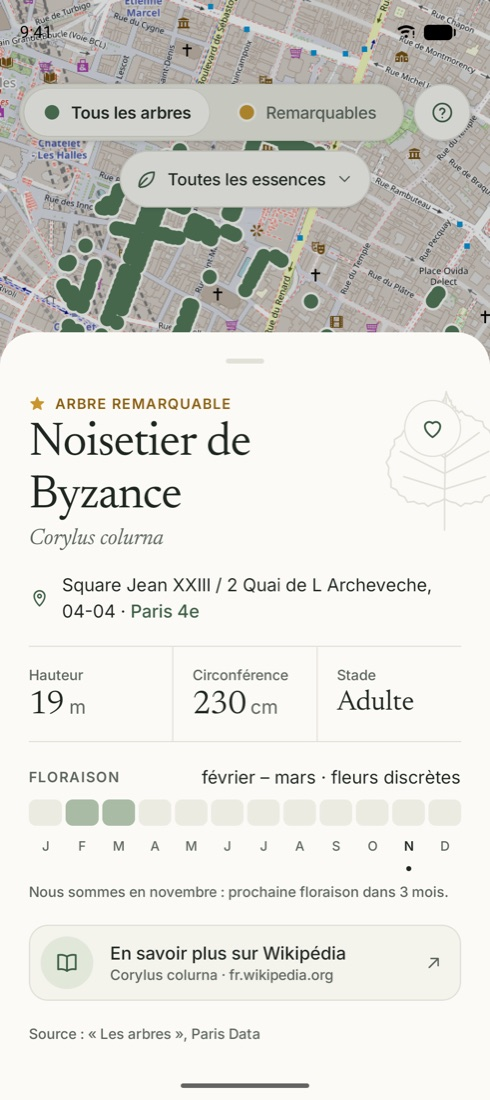
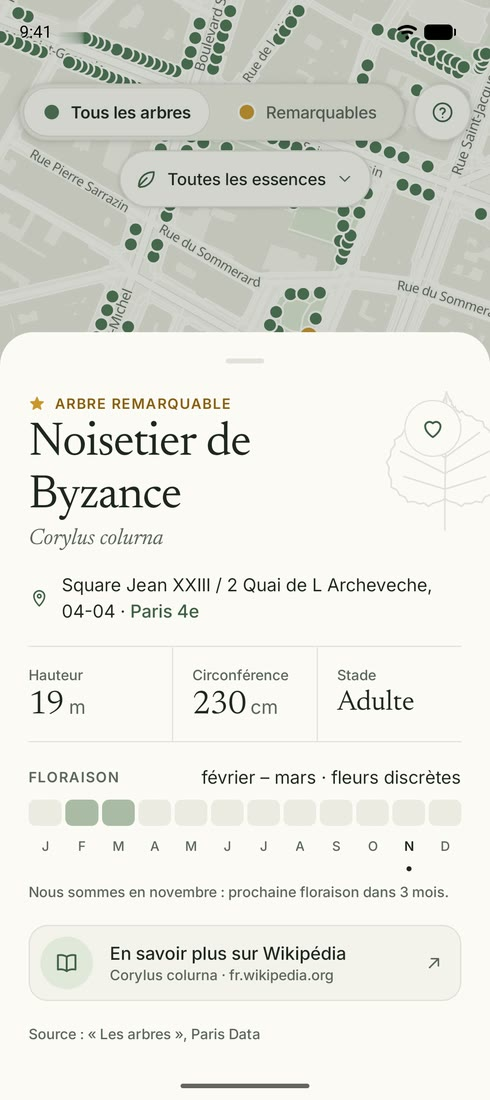
docs(website): mention the neighbouring towns wherever the map is described, new screenshots
- Website: « Les arbres de Paris et d'alentour, un par un. », the intro,
  titles and sharing previews name the eight GPSO towns; figures for the
  whole map (252 975 trees, 209 genera, 347 remarkable trees); the data
  section and footer credit Grand Paris Seine Ouest. Same on the map page.
- New screenshots: the tree sheet over the new Herbier map, and Herbier.
- App: À propos and the remarkable-tree explanation mention the towns.
- Store texts and the first release note name the towns and both
  sources; the error report line is gone from the description.
- README and CLAUDE.md. The Herbier wording stays on Paris: its figures
  are the Paris data's.

diff --git a/website/index.html b/website/index.html
@@ -3,8 +3,8 @@
 <head>
   <meta charset="utf-8">
   <meta name="viewport" content="width=device-width, initial-scale=1">
-  <title>Arbres de Paris — les arbres de Paris, un par un</title>
-  <meta name="description" content="Arbres de Paris, l’application Android qui montre les 220 339 arbres de la Ville de Paris sur une carte : leur nom, leur taille, leur floraison et les arbres remarquables.">
+  <title>Arbres de Paris — les arbres de Paris et des villes voisines, un par un</title>
+  <meta name="description" content="Arbres de Paris, l’application Android qui montre les 252 975 arbres de Paris et de huit villes voisines sur une carte : leur nom, leur taille, leur floraison et les arbres remarquables.">
   <meta name="theme-color" content="#f4f3ec" media="(prefers-color-scheme: light)">
   <meta name="theme-color" content="#141815" media="(prefers-color-scheme: dark)">
   <link rel="canonical" href="https://arbresdeparis.fr/">
@@ -15,8 +15,8 @@
   <meta property="og:type" content="website">
   <meta property="og:locale" content="fr_FR">
   <meta property="og:site_name" content="Arbres de Paris">
-  <meta property="og:title" content="Arbres de Paris — les arbres de Paris, un par un">
-  <meta property="og:description" content="Les 220 339 arbres de la Ville de Paris sur une carte, avec leur nom, leur taille, leur floraison et les arbres remarquables.">
+  <meta property="og:title" content="Arbres de Paris — les arbres de Paris et des villes voisines, un par un">
+  <meta property="og:description" content="Les 252 975 arbres de Paris et de huit villes voisines sur une carte, avec leur nom, leur taille, leur floraison et les arbres remarquables.">
   <meta property="og:url" content="https://arbresdeparis.fr/">
   <meta property="og:image" content="https://arbresdeparis.fr/images/app-fiche-arbre.jpg">
   <meta property="og:image:alt" content="La fiche d’un arbre remarquable dans l’application Arbres de Paris">
@@ -41,8 +41,8 @@
   <main id="contenu">
     <section class="wrap hero" aria-labelledby="titre">
       <div class="hero-text">
-        <h1 id="titre">Les arbres de Paris, un par un.</h1>
-        <p>Platanes, tilleuls, marronniers, ginkgos : les 220 339 arbres de la Ville de Paris sur une carte, avec leur nom, leur taille, leur floraison, et les arbres remarquables en or. Ouvrez la carte et découvrez l’arbre juste à côté de vous.</p>
+        <h1 id="titre">Les arbres de Paris et d’alentour, un&nbsp;par&nbsp;un.</h1>
+        <p>Platanes, tilleuls, marronniers, ginkgos : les 252 975 arbres de Paris et de huit villes voisines, de Boulogne-Billancourt à Meudon, sur une carte, avec leur nom, leur taille, leur floraison, et les arbres remarquables en or. Ouvrez la carte et découvrez l’arbre juste à côté de vous.</p>
         <!--
           Lien du store, à mettre ici quand l'application sera publiée, à la place du <div> ci-dessous :
           <a class="store-badge" href="https://play.google.com/store/apps/details?id=fr.arbresdeparis">…</a>
@@ -72,9 +72,9 @@
 
     <section class="figures" aria-label="En chiffres">
       <dl class="wrap">
-        <div><dt>arbres sur la carte</dt><dd>220&#8239;339</dd></div>
-        <div><dt>genres, du platane au ginkgo</dt><dd>202</dd></div>
-        <div><dt>arbres remarquables</dt><dd class="remarkable">181</dd></div>
+        <div><dt>arbres sur la carte</dt><dd>252&#8239;975</dd></div>
+        <div><dt>genres, du platane au ginkgo</dt><dd>209</dd></div>
+        <div><dt>arbres remarquables</dt><dd class="remarkable">347</dd></div>
         <div><dt>feuilles dessinées à la main</dt><dd>21</dd></div>
       </dl>
     </section>
@@ -112,7 +112,7 @@
       <div class="wrap section">
         <h2 id="titre-donnees">Des données ouvertes</h2>
         <div class="data-text">
-          <p>Les arbres viennent du jeu de données <a href="https://opendata.paris.fr/explore/dataset/les-arbres/information/">« Les arbres »</a> publié par la Ville de Paris sous licence ODbL, et actualisé régulièrement.</p>
+          <p>Les arbres viennent du jeu de données <a href="https://opendata.paris.fr/explore/dataset/les-arbres/information/">« Les arbres »</a> publié par la Ville de Paris sous licence ODbL, et actualisé régulièrement. Ceux de Boulogne-Billancourt, Chaville, Issy-les-Moulineaux, Marnes-la-Coquette, Meudon, Sèvres, Vanves et Ville-d’Avray viennent du jeu de données <a href="https://data.seineouest.fr/explore/dataset/arbres-v2/information/">« Arbres »</a> de Grand Paris Seine Ouest, sous Licence Ouverte.</p>
           <p>Le fond de carte, dessiné aux couleurs de l’herbier avec <a href="https://maplibre.org">MapLibre</a>, vient d’<a href="https://openfreemap.org">OpenFreeMap</a> : des tuiles <a href="https://www.openmaptiles.org/">OpenMapTiles</a> faites des données d’<a href="https://www.openstreetmap.org/copyright">OpenStreetMap</a> et de ses contributeurs (licence ODbL).</p>
           <p>Les mois de floraison viennent du <a href="https://opendata.paris.fr/explore/dataset/fiches-essences-du-guide-des-essences-de-paris/information/">« Guide des Essences de Paris »</a> (Ville de Paris, Cerema) ; les fiches renvoient à Wikipédia.</p>
         </div>
@@ -166,7 +166,7 @@
   <footer class="site-footer">
     <div class="wrap">
       <span>© 2026 Arbres de Paris</span>
-      <span>Données : Ville de Paris, ODbL</span>
+      <span>Données : Ville de Paris (ODbL), Grand Paris Seine Ouest (Licence Ouverte)</span>
       <span>Carte : OpenFreeMap · © OpenMapTiles · © les contributeurs d’OpenStreetMap</span>
       <span>Application indépendante, non affiliée à la Ville de Paris</span>
       <a href="confidentialite/">Confidentialité</a>

diff --git a/website/maps/index.html b/website/maps/index.html
@@ -3,8 +3,8 @@
 <head>
   <meta charset="utf-8">
   <meta name="viewport" content="width=device-width, initial-scale=1, viewport-fit=cover">
-  <title>La carte des arbres de Paris — Arbres de Paris</title>
-  <meta name="description" content="Les 220 339 arbres de la Ville de Paris sur une carte, dans le navigateur : leur essence, leur taille, leur adresse et les arbres remarquables en or.">
+  <title>La carte des arbres de Paris et des villes voisines — Arbres de Paris</title>
+  <meta name="description" content="Les 252 975 arbres de Paris et de huit villes voisines sur une carte, dans le navigateur : leur essence, leur taille, leur adresse et les arbres remarquables en or.">
   <meta name="theme-color" content="#f4f3ec" media="(prefers-color-scheme: light)">
   <meta name="theme-color" content="#141815" media="(prefers-color-scheme: dark)">
   <link rel="canonical" href="https://arbresdeparis.fr/maps/">
@@ -17,8 +17,8 @@
   <meta property="og:type" content="website">
   <meta property="og:locale" content="fr_FR">
   <meta property="og:site_name" content="Arbres de Paris">
-  <meta property="og:title" content="La carte des arbres de Paris">
-  <meta property="og:description" content="Les 220 339 arbres de la Ville de Paris sur une carte, avec leur essence, leur taille et les arbres remarquables.">
+  <meta property="og:title" content="La carte des arbres de Paris et des villes voisines">
+  <meta property="og:description" content="Les 252 975 arbres de Paris et de huit villes voisines sur une carte, avec leur essence, leur taille et les arbres remarquables.">
   <meta property="og:url" content="https://arbresdeparis.fr/maps/">
   <meta property="og:image" content="https://arbresdeparis.fr/images/app-fiche-arbre.jpg">
 </head>
@@ -28,13 +28,13 @@
       <svg width="36" height="36" viewBox="0 0 108 108" aria-hidden="true"><rect width="108" height="108" rx="24" fill="#3F5F45"/><g transform="translate(54 56) scale(0.74) translate(-50 -40)" fill="none" stroke="#F4F3EC" stroke-linecap="round" stroke-linejoin="round"><path d="M50 52C40 50 26 54 14 46C22 44 26 36 22 26C32 30 38 26 40 16C44 22 48 22 50 10C52 22 56 22 60 16C62 26 68 30 78 26C74 36 78 44 86 46C74 54 60 50 50 52Z" stroke-width="3.4"/><path d="M50 52L30 30M50 52L50 18M50 52L70 30M50 52L22 44M50 52L78 44" stroke-width="2.2"/><path d="M50 52L50 70" stroke-width="3.4"/></g><circle cx="73" cy="70" r="4.5" fill="#C9962E"/></svg>
       <span>
         <strong>Arbres de Paris</strong>
-        <small><span id="count">220&#8239;339</span> arbres · <span id="extraction">Ville de Paris</span></small>
+        <small><span id="count">252&#8239;975</span> arbres · <span id="extraction">Paris et alentour</span></small>
       </span>
     </a>
     <a class="app-link" href="../#application">L’application</a>
   </header>
 
-  <main id="map" aria-label="Carte des arbres de Paris"></main>
+  <main id="map" aria-label="Carte des arbres de Paris et des villes voisines"></main>
 
   <div class="tools">
     <button id="only-remarkable" class="pill" type="button" aria-pressed="false">

diff --git a/README.md b/README.md
@@ -2,13 +2,14 @@
 
 [![CI](https://github.com/jinqian/treesofparis/actions/workflows/ci.yml/badge.svg)](https://github.com/jinqian/treesofparis/actions/workflows/ci.yml)
 
-**Arbres de Paris**, an Android app to explore the trees of Paris on a map: [arbresdeparis.fr](https://arbresdeparis.fr).
+**Arbres de Paris**, an Android app to explore the trees of Paris and its neighbouring towns on a map: [arbresdeparis.fr](https://arbresdeparis.fr).
 
-- **Carte**: the 220,339 trees the City of Paris manages, in Paris and in its sites nearby (cemeteries of Pantin,
-  Thiais, Ivry…), on a calm « Herbier » map, light or dark. Show only the remarkable trees or one genus
+- **Carte**: 252,975 trees: the 220,339 the City of Paris manages, in Paris and in its sites nearby (cemeteries of
+  Pantin, Thiais, Ivry…), and the 32,636 of Grand Paris Seine Ouest's 8 towns (Boulogne-Billancourt to Ville-d'Avray),
+  on a calm « Herbier » map, light or dark; zoomed out, groups of trees with their count. Show only the remarkable trees or one genus
   (« Toutes les essences »), find the tree closest to you, and tap a tree for its sheet: height, girth, flowering
   calendar, Wikipédia and favorite.
-- **Herbier**: the most planted genera with their leaf drawings, flowering through the year, the remarkable trees,
+- **Herbier** (Paris data): the most planted genera with their leaf drawings, flowering through the year, the remarkable trees,
   ages and arrondissements.
 - **Favoris**: the trees you saved, stored only on your device (and in Android's backup).
 - **À propos**: contact, data sources and credits, the open-source projects the app uses.
@@ -16,7 +17,8 @@
 ## Credits
 
 - **Trees:** [Paris Open Data, « Les arbres »](https://opendata.paris.fr/explore/dataset/les-arbres/information/)
-  (Ville de Paris, ODbL).
+  (Ville de Paris, ODbL) and [« Arbres »](https://data.seineouest.fr/explore/dataset/arbres-v2/information/)
+  (Grand Paris Seine Ouest, Licence Ouverte 2.0); town boundaries from geo.api.gouv.fr (Licence Ouverte).
 - **Flowering months:** the species sheets of the
   [« Guide des Essences de Paris »](https://opendata.paris.fr/explore/dataset/fiches-essences-du-guide-des-essences-de-paris/information/)
   (Ville de Paris, Cerema, 2023, ODbL), listed in `GuideFloweringRepository` and in the app under À propos.
@@ -85,7 +87,7 @@ GitHub Actions (`.github/workflows/`):
 |----------|------|------|
 | `ci.yml` | pull requests, pushes to `main` | Spotless, Detekt, module boundaries, unit tests, Android lint, debug APK, data script tests, dependency review |
 | `pr-title.yml` | pull requests | PR title follows Conventional Commits (it becomes the squash commit message) |
-| `update-data.yml` | monthly, or manually | Rebuilds `trees.db` from Paris Open Data and opens a PR when the data changed |
+| `update-data.yml` | monthly, or manually | Rebuilds `trees.db` from the open tree datasets and opens a PR when the data changed |
 | `pages.yml` | pushes to `main` that touch `website/`, or manually | Publishes the website to GitHub Pages (see [`website/README.md`](website/README.md)) |
 
 Dependabot keeps Gradle, GitHub Actions and Python dev dependencies up to date.

diff --git a/CLAUDE.md b/CLAUDE.md
@@ -1,6 +1,7 @@
 # Trees of Paris — agent guide
 
-Android app showing the trees of Paris (Paris Open Data `les-arbres`) on an OpenStreetMap map.
+Android app showing the trees of Paris and its neighbouring towns (Paris Open Data `les-arbres`, Grand Paris Seine
+Ouest; ADR 0008) on an OpenStreetMap map.
 UI language: **French**. Read `docs/adr/` for decisions and `docs/roadmap/` for ideas and plans.
 
 ## Modules
